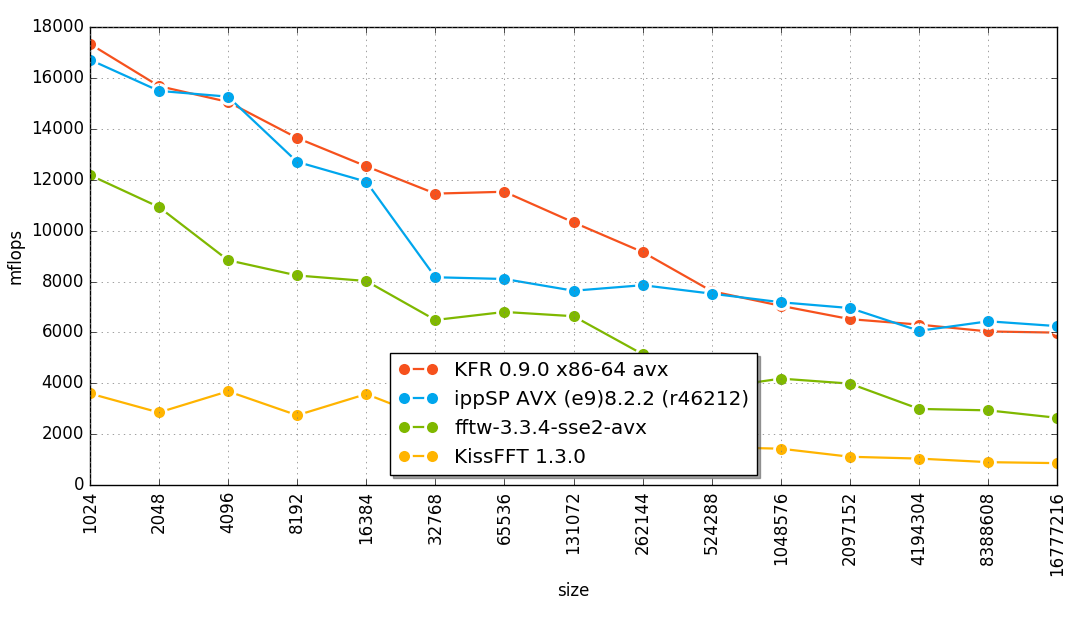
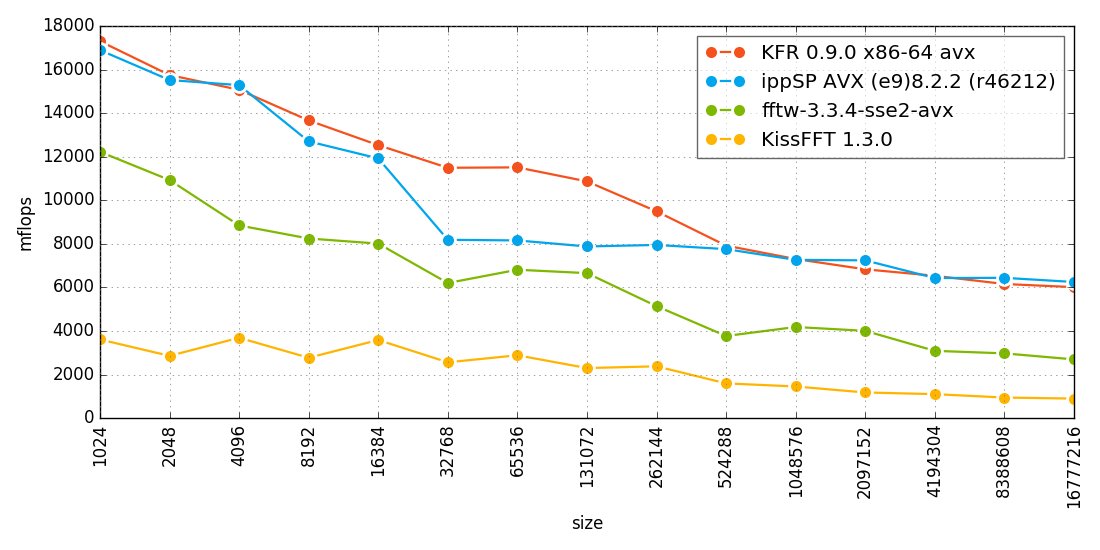
more benchmark results in README.md

Changed region(s): [[0.0, 0.0309, 1.0, 0.9273], [0.5209, 0.9273, 0.5515, 0.9891]]

diff --git a/README.md b/README.md
@@ -2,7 +2,7 @@
 
 [![Build Status](https://travis-ci.org/kfrlib/kfr.svg?branch=master)](https://travis-ci.org/kfrlib/kfr)
 
-KFR is an open source C++ DSP framework that focuses on high performance.
+KFR is an open source C++ DSP framework that focuses on high performance (see benchmark results section).
 
 KFR is a header-only and has no external dependencies.
 
@@ -14,8 +14,7 @@ KFR is a header-only and has no external dependencies.
 * All data types are supported including complex numbers
 * All vector lengths are also supported. `vec<float,1>`, `vec<unsigned,3>`, `vec<complex<float>, 11>` all are valid vector types in KFR
 * Most of the standard library functions are re-implemented to support vector of any length and data type
-* Runtime CPU dispatching
-* Multi-versioning. Code for various architecttures (SSE2, AVX2, etc) can co-exist in one translation unit. No need to compile for all cpus
+* Runtime cpu detection
 
 Included DSP/audio algorithms:
 
@@ -25,6 +24,7 @@ Included DSP/audio algorithms:
 * FIR filter design using the window method
 * Resampling with configurable quality (See resampling.cpp from Examples directory)
 * Goertzel algorithm
+* Fractional delay
 * Biquad filtering
 * Biquad design functions
 * Oscillators: Sine, Square, Sawtooth, Triangle
@@ -35,14 +35,19 @@ Included DSP/audio algorithms:
 * Ring (Circular) buffer
 * Fast incremental sine/cosine generation
 
-## Performace
+## Benchmark results
+### FFT
 
 FFT (double precision, sizes from 1024 to 16777216)
 See [fft benchmark](https://github.com/kfrlib/fft-benchmark) for details about benchmarking process.
 
 ![FFT Performance](img/fft_performance.png)
+
+### Biquad
+
+[Biquad performance](https://github.com/kfrlib/biquad-benchmark/blob/master/bq.svg)
     
-## Prerequisities
+## Prerequisites
 
 * macOS: XCode 6.3, 6.4, 7.x, 8.x
 * Windows
